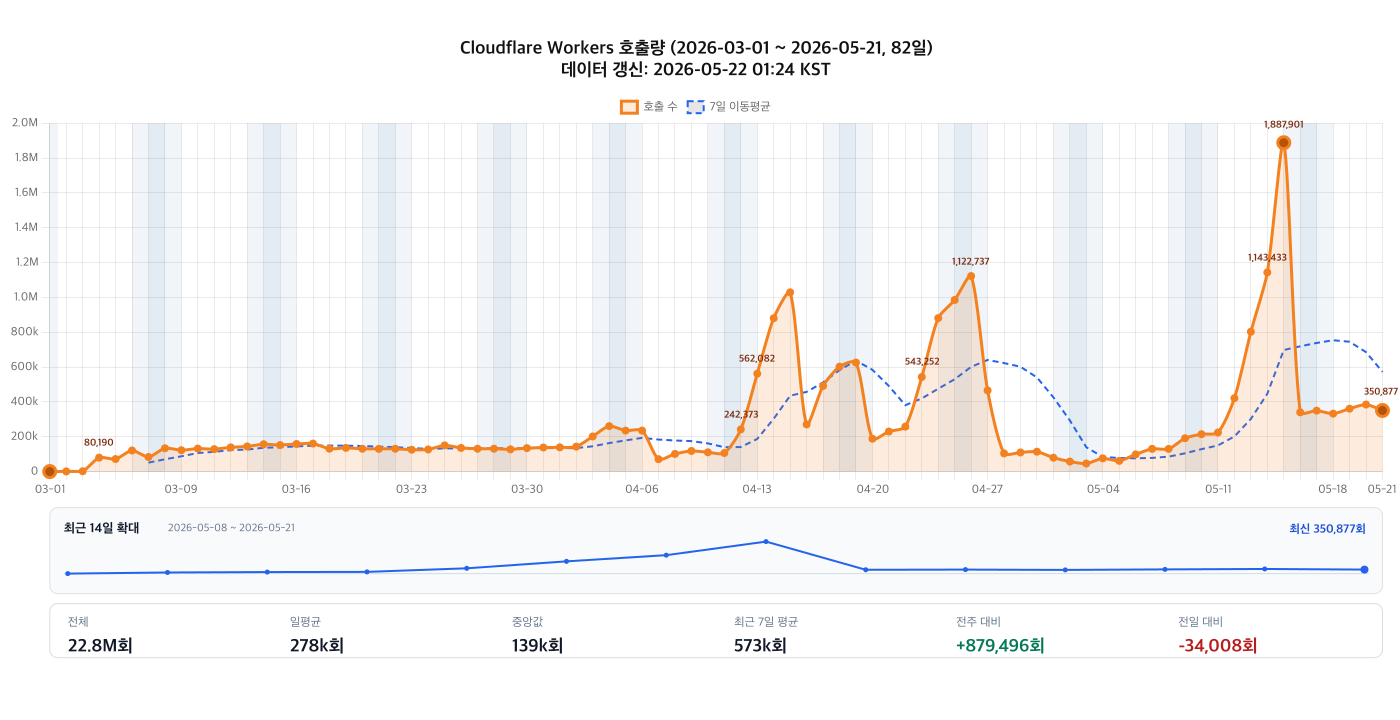
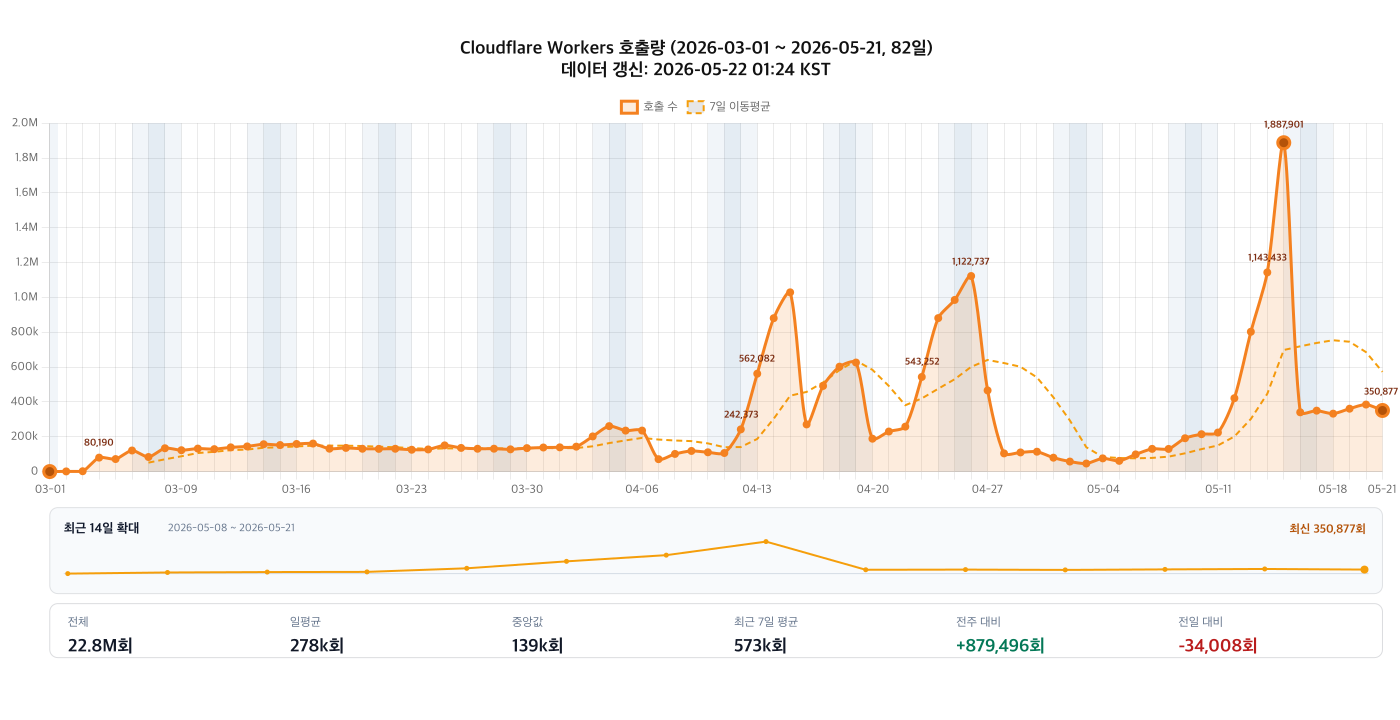
chore: use amber workers chart accents

diff --git a/scripts/ops/update-workers-invocations-chart.ts b/scripts/ops/update-workers-invocations-chart.ts
@@ -18,6 +18,7 @@ import {
   formatNumber,
   parseKstDateText,
   shouldShowWeeklyTick,
+  WORKERS_CHART_ACCENT_COLORS,
 } from './workers-chart-helpers.ts';
 import { fetchDailyWorkerInvocations } from './workers-chart-data.ts';
 
@@ -150,11 +151,11 @@ function buildRecent14PanelPlugin(points) {
           ctx.lineTo(px, py);
         }
       });
-      ctx.strokeStyle = '#2563eb';
+      ctx.strokeStyle = WORKERS_CHART_ACCENT_COLORS.recent14Line;
       ctx.lineWidth = 2;
       ctx.stroke();
 
-      ctx.fillStyle = '#2563eb';
+      ctx.fillStyle = WORKERS_CHART_ACCENT_COLORS.recent14Line;
       for (const [index, point] of recent.entries()) {
         ctx.beginPath();
         ctx.arc(
@@ -170,7 +171,7 @@ function buildRecent14PanelPlugin(points) {
       const latest = recent[recent.length - 1];
       if (latest) {
         ctx.font = `bold 12px ${PREFERRED_FONT_FAMILY}`;
-        ctx.fillStyle = '#1d4ed8';
+        ctx.fillStyle = WORKERS_CHART_ACCENT_COLORS.recent14Label;
         ctx.textAlign = 'right';
         ctx.fillText(`최신 ${formatNumber(latest.requests)}회`, x + width - 16, y + 22);
         ctx.textAlign = 'left';
@@ -319,7 +320,7 @@ async function renderChart(points, summary, metadata) {
         {
           label: '7일 이동평균',
           data: movingAverage,
-          borderColor: '#2563eb',
+          borderColor: WORKERS_CHART_ACCENT_COLORS.movingAverage,
           borderWidth: 2,
           borderDash: [6, 4],
           pointRadius: 0,

diff --git a/tests/scripts/workers-chart-helpers.test.ts b/tests/scripts/workers-chart-helpers.test.ts
@@ -6,6 +6,7 @@ import {
   buildDataLabelIndexes,
   calculateSummary,
   shouldShowWeeklyTick,
+  WORKERS_CHART_ACCENT_COLORS,
 } from '../../scripts/ops/workers-chart-helpers.ts';
 
 describe('calculateSummary', () => {
@@ -57,5 +58,13 @@ describe('shouldShowWeeklyTick', () => {
       false,
       true,
     ]);
+  });
+});
+
+describe('WORKERS_CHART_ACCENT_COLORS', () => {
+  it('보조선 색상은 amber 계열을 사용한다', () => {
+    expect(WORKERS_CHART_ACCENT_COLORS.movingAverage).toBe('#f59e0b');
+    expect(WORKERS_CHART_ACCENT_COLORS.recent14Line).toBe('#f59e0b');
+    expect(WORKERS_CHART_ACCENT_COLORS.recent14Label).toBe('#b45309');
   });
 });

diff --git a/scripts/ops/workers-chart-helpers.ts b/scripts/ops/workers-chart-helpers.ts
@@ -7,6 +7,12 @@ export function formatKstDate(date) {
   }).format(date);
 }
 
+export const WORKERS_CHART_ACCENT_COLORS = {
+  movingAverage: '#f59e0b',
+  recent14Line: '#f59e0b',
+  recent14Label: '#b45309',
+};
+
 export function formatKstDateTime(date) {
   const parts = new Intl.DateTimeFormat('sv-SE', {
     timeZone: 'Asia/Seoul',

diff --git a/README.md b/README.md
@@ -62,9 +62,9 @@
 <!-- WORKERS_INVOCATIONS_CHART:START -->
 <h3>Cloudflare Workers 호출량 (2026-03-01 ~ 2026-05-21, 82일)</h3>
 
-<img src="./assets/analytics/workers-invocations.png?v=2026-05-23T04:29:35.784Z" alt="Cloudflare Workers 호출량 그래프 (2026-03-01 ~ 2026-05-21)" width="100%">
+<img src="./assets/analytics/workers-invocations.png?v=2026-05-23T04:50:41.937Z" alt="Cloudflare Workers 호출량 그래프 (2026-03-01 ~ 2026-05-21)" width="100%">
 
-<sub>기준 워커: <code>daiso-mcp</code> · 마지막 갱신: 2026-05-23 13:29 KST</sub>
+<sub>기준 워커: <code>daiso-mcp</code> · 마지막 갱신: 2026-05-23 13:50 KST</sub>
 
 <!-- WORKERS_INVOCATIONS_CHART:END -->
 